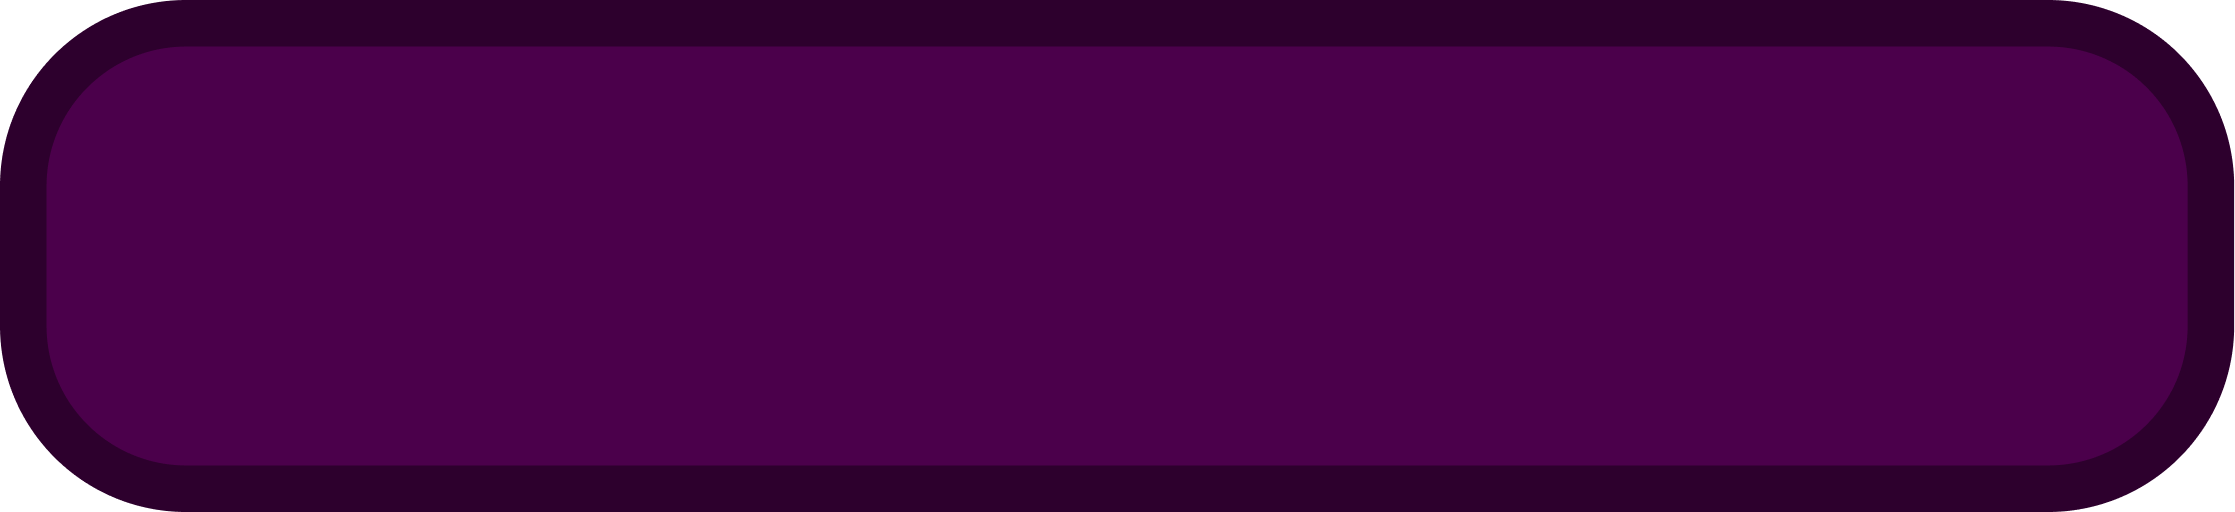
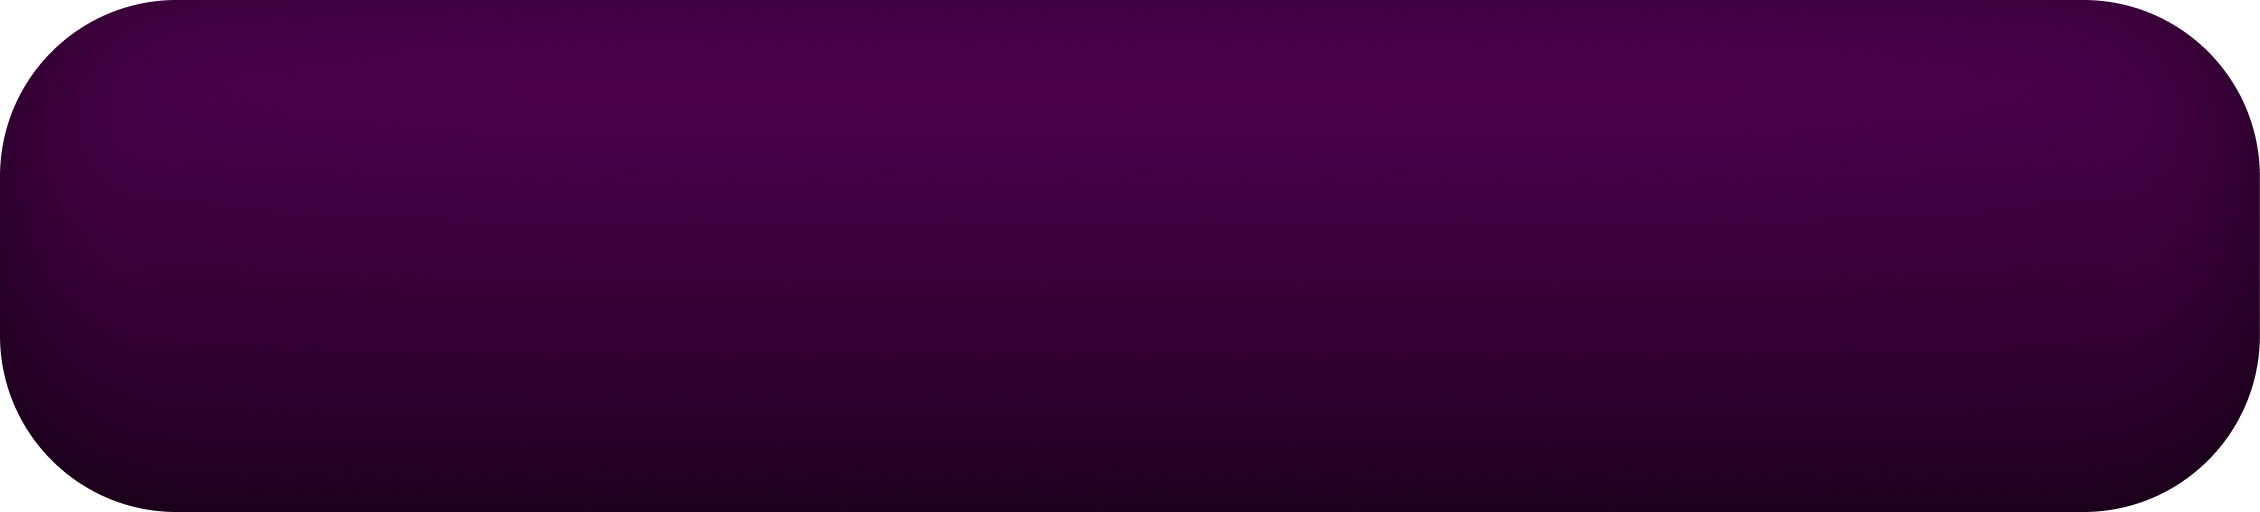
new scorebox

diff --git a/Encore/src/menus/GameplayMenu.cpp b/Encore/src/menus/GameplayMenu.cpp
@@ -23,6 +23,7 @@
 
 #include "gameplay/LyricRenderer.h"
 #include "settings/keybinds.h"
+#include "song/OpenSource.h"
 #include "tracy/Tracy.hpp"
 
 Encore::LyricRenderer TheLyricRenderer;
@@ -158,11 +159,13 @@ void GameplayMenu::DrawScorebox(Units &u, Assets &assets, float scoreY) {
     Rectangle scoreboxSrc{
         0, 0, float(assets.Scorebox.width), float(assets.Scorebox.height)
     };
+    // not optimized at all LMAO
     float WidthOfScorebox = u.hinpct(0.28);
     // float scoreY = u.hpct(0.15f);
     float ScoreboxX = u.RightSide;
-    float ScoreboxY = u.hpct(0.1425f);
-    float HeightOfScorebox = WidthOfScorebox / 4;
+    float HeightOfScorebox = WidthOfScorebox / (5 + (1/3));
+    float ScoreboxY = scoreY;
+    float scoreTextPadding = (HeightOfScorebox - u.hinpct(0.05)) / 2;
     Rectangle scoreboxDraw{ ScoreboxX, ScoreboxY, WidthOfScorebox, HeightOfScorebox };
     DrawTexturePro(
         assets.Scorebox,
@@ -178,7 +181,7 @@ void GameplayMenu::DrawScorebox(Units &u, Assets &assets, float scoreY) {
         GameMenu::scoreCommaFormatter(
             ThePlayerManager.GetActivePlayer(0).engine->stats->Score
         ),
-        { u.RightSide - u.winpct(0.0145f), scoreY + u.hinpct(0.0025) },
+        { u.RightSide - u.winpct(0.0145f), ScoreboxY + scoreTextPadding },
         u.hinpct(0.05),
         Color{ 107, 161, 222, 255 },
         assets.sdfShader,
@@ -193,8 +196,9 @@ void GameplayMenu::DrawTimerbox(Units &u, Assets &assets, float scoreY) {
     float WidthOfTimerbox = u.hinpct(0.14);
     // float scoreY = u.hpct(0.15f);
     float TimerboxX = u.RightSide;
-    float TimerboxY = u.hpct(0.1425f);
+
     float HeightOfTimerbox = WidthOfTimerbox / 4;
+    float TimerboxY = scoreY;
     Rectangle TimerboxDraw{ TimerboxX, TimerboxY, WidthOfTimerbox, HeightOfTimerbox };
     DrawTexturePro(
         assets.Timerbox,
@@ -236,7 +240,7 @@ void GameplayMenu::DrawTimerbox(Units &u, Assets &assets, float scoreY) {
     GameMenu::mhDrawText(
         assets.rubik,
         textTime,
-        { u.RightSide - (WidthOfTimerbox / 2), scoreY - u.hinpct(SmallHeader) },
+        { u.RightSide - (WidthOfTimerbox / 2), TimerboxY - u.hinpct(SmallHeader * (0.66 * 1.25)) },
         u.hinpct(SmallHeader * 0.66),
         WHITE,
         assets.sdfShader,
@@ -458,7 +462,7 @@ void GameplayMenu::Draw() {
     TheAudioManager.UpdateAudioStreamVolumes();
 
     float scorePos = u.RightSide - u.hinpct(0.01f);
-    float scoreY = u.hpct(0.15f);
+    float scoreY = u.hpct(0.2f);
     float starY = scoreY + u.hinpct(0.065f);
     // Draw Stars
     DrawGameplayStars(u, assets, scorePos, starY);
@@ -509,16 +513,22 @@ void GameplayMenu::Draw() {
     // please God smite this code. flip a few bits in my hard drive. please get rid of this shit somehow
     // there's better ways. forgive me for I have sinned
 
+    auto sourceTex = TheSourceIcons[TheSongList.curSong->source]->GetTexture();
     float topOfVocalBar = u.hpct(0.2f);
     float TitleFontSize = u.hinpct(0.0425f * 0.75f);
     GameMenu::mhDrawText(ASSET(josefinSansBold), TheSongList.curSong->title,
         {u.wpct(0.01f), topOfVocalBar}, TitleFontSize,
         WHITE, ASSET(sdfShader), LEFT);
+    float TitleFontOffset = (TitleFontSize * 1.25f);
+    float SecondaryFontSize = TitleFontSize * 0.85f;
     GameMenu::mhDrawText(ASSET(josefinSansBoldItalic), TheSongList.curSong->artist + ", " + TheSongList.curSong->releaseYear,
-        {u.wpct(0.01f), topOfVocalBar + (TitleFontSize * 1.25f)}, TitleFontSize * 0.85f,
+        {u.wpct(0.01f), topOfVocalBar + TitleFontOffset}, TitleFontSize * 0.85f,
         LIGHTGRAY, ASSET(sdfShader), LEFT);
+    DrawTexturePro(sourceTex, {0,0, (float)sourceTex.width, (float)sourceTex.height},
+        {u.wpct(0.01f), topOfVocalBar + (TitleFontOffset + SecondaryFontSize), TitleFontSize, TitleFontSize}, {0,0}, 0, WHITE
+    );
     GameMenu::mhDrawText(ASSET(josefinSansBoldItalic), TheSongList.curSong->charters[0],
-        {u.wpct(0.01f), topOfVocalBar + ((TitleFontSize * 1.25f) + TitleFontSize)}, TitleFontSize * 0.85f,
+        {u.wpct(0.01f) + ( TitleFontSize * 1.125f) , topOfVocalBar + (TitleFontOffset + TitleFontSize)}, SecondaryFontSize,
         LIGHTGRAY, ASSET(sdfShader), LEFT);
 
     GuiSetStyle(PROGRESSBAR, BORDER_WIDTH, 0);